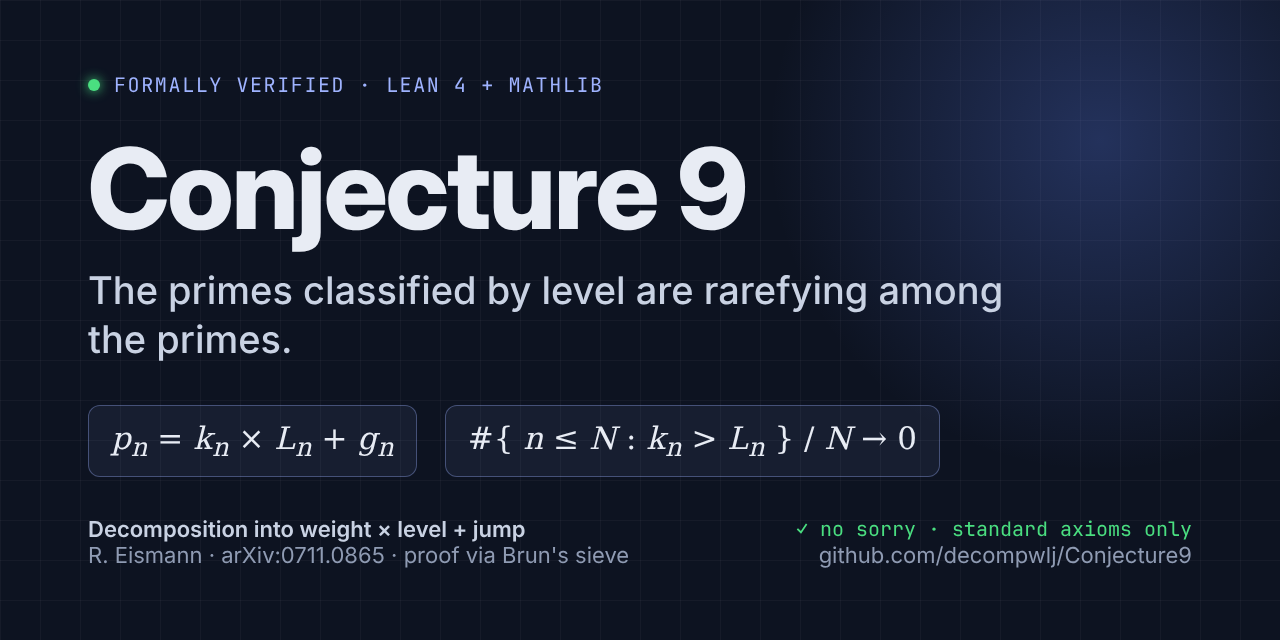
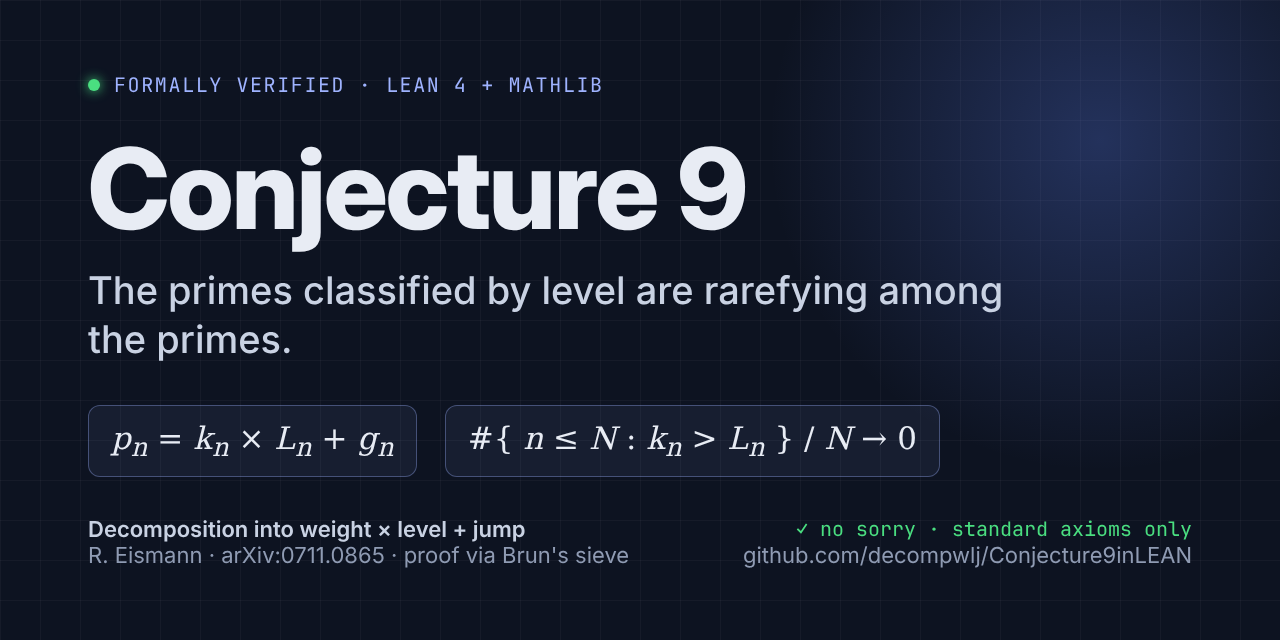
Use the repository's actual name (Conjecture9inLEAN) in links and social card
Claude-Session: https://claude.ai/code/session_01FpoQj7Zm7risVY5TTuSeFC

Changed region(s): [[0.5625, 0.8438, 0.9375, 0.9062]]

diff --git a/README.md b/README.md
@@ -4,7 +4,7 @@
 
 # Conjecture 9, formally proved in Lean 4
 
-[![Verify Lean proof](https://github.com/decompwlj/Conjecture9/actions/workflows/lean.yml/badge.svg)](https://github.com/decompwlj/Conjecture9/actions/workflows/lean.yml)
+[![Verify Lean proof](https://github.com/decompwlj/Conjecture9inLEAN/actions/workflows/lean.yml/badge.svg)](https://github.com/decompwlj/Conjecture9inLEAN/actions/workflows/lean.yml)
 [![Lean 4](https://img.shields.io/badge/Lean-v4.35.0-0b3d91)](https://lean-lang.org)
 [![Mathlib](https://img.shields.io/badge/Mathlib-v4.35.0-5e81f4)](https://github.com/leanprover-community/mathlib4)
 [![arXiv](https://img.shields.io/badge/arXiv-0711.0865-b31b1b)](https://arxiv.org/abs/0711.0865)
@@ -220,7 +220,7 @@ This formalization:
 ```bibtex
 @misc{conjecture9lean,
   title        = {Conjecture 9: a formal proof in {Lean} 4},
-  howpublished = {\url{https://github.com/decompwlj/Conjecture9}},
+  howpublished = {\url{https://github.com/decompwlj/Conjecture9inLEAN}},
   year         = {2026}
 }
 ```
